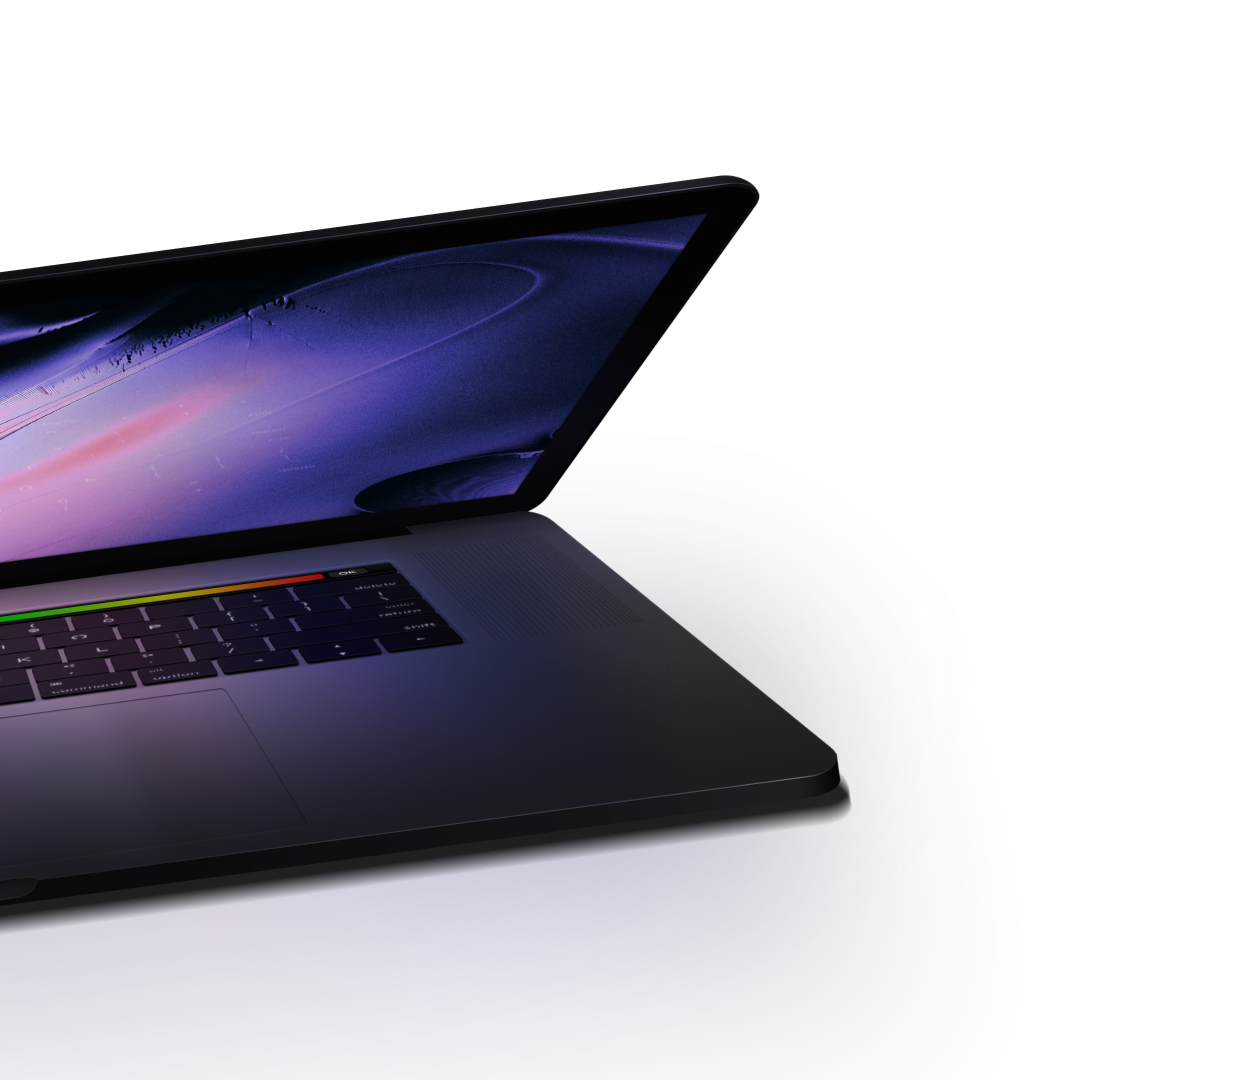
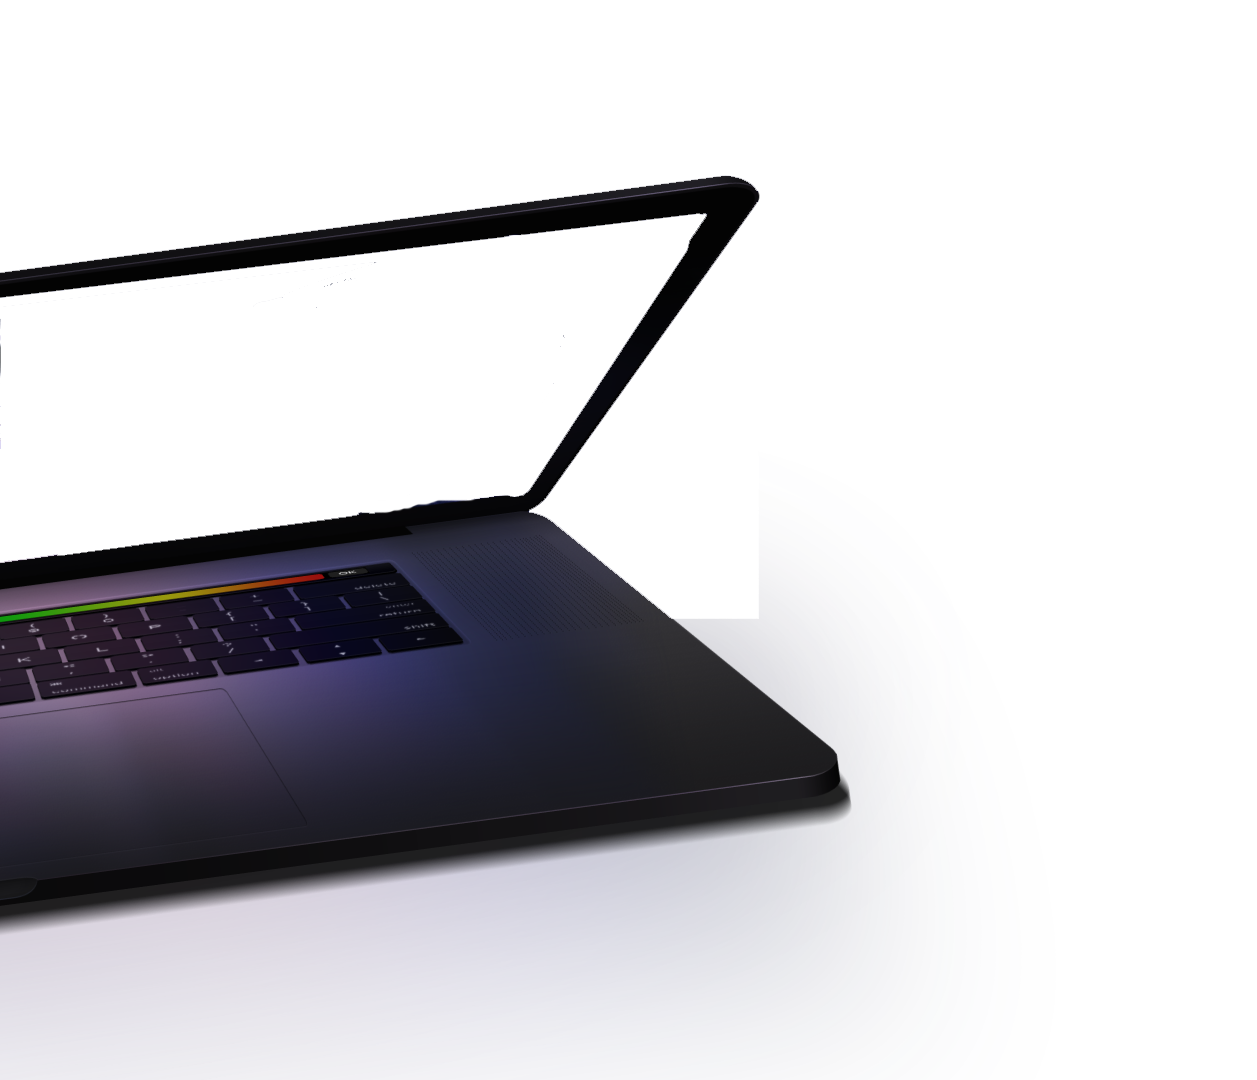
- добавлены анимации на все страницы при переходах

Changed region(s): [[0.0, 0.1833, 0.5585, 0.5194], [0.4964, 0.5194, 0.5895, 0.5806]]

diff --git a/usl.html b/usl.html
@@ -38,7 +38,7 @@
        <div class="container-fluid">
             <div class="row">
                <div class="col-12 col-md-6">
-                   <a href="#" class="h-logo">YOD</a>
+                   <a href="index.html" class="h-logo">YOD</a>
                </div>
                <div class="col-12 col-md-6">
                    <div class="row">
@@ -227,7 +227,7 @@
                             <li><a href="#" alt="Портфолио">Портфолио</a></li>
                             <li><a href="#" alt="Услуги">Услуги</a></li>
                             <li><a href="#" alt="О компании">О компании</a></li>
-                            <li><a href="#" alt="Вакансии">Вакансии</a></li>
+                            <li><a href="vac.html" alt="Вакансии">Вакансии</a></li>
                             <li><a href="#" alt="Контакты">Контакты</a></li>
                         </ul>
                     </div>
@@ -335,26 +335,12 @@
         </div>			
     </div>    
 </div>
-
-<div id="p_prldr">
-    <div class="contpre">
-
-        <svg width="100%" height="100%" viewBox="0 0 526 58" fill="none" id="svg_pr"> 
-            <path opacity="0.15" d="M25.4167 20.3748C25.4167 20.3748 125.75 47.4998 271.583 20.3748C417.417 -6.75019 517.75 20.3748 517.75 20.3748" stroke="white" stroke-width="16" stroke-linecap="round"/>
-            <mask id="mask0" mask-type="alpha" maskUnits="userSpaceOnUse" x="0" y="2" width="100%" height="100%">
-              <rect y="2" width="0" height="56" fill="#C4C4C4"/>
-            </mask>
-            <g mask="url(#mask0)">
-                <path d="M25.4167 20.3748C25.4167 20.3748 125.75 47.4998 271.583 20.3748C417.417 -6.75019 517.75 20.3748 517.75 20.3748" stroke="url(#paint0_linear)" stroke-width="16" stroke-linecap="round"/>
-            </g>
-            <defs>
-                <linearGradient id="paint0_linear" x1="-148.063" y1="39.7282" x2="-134.018" y2="-89.4333" gradientUnits="userSpaceOnUse">
-                    <stop offset="0.114351" stop-color="#69FFAE"/>
-                    <stop offset="0.509091" stop-color="#69C9FF"/>
-                    <stop offset="0.88702" stop-color="#9069FF"/>
-                </linearGradient>
-            </defs>
-        </svg>
+<div id="p_prldr2">
+    <div class="contpre2"></div>
+</div> 
+<div id="post_prldr" style="display:none;">
+    <div class="contpost">
+        <div class="contpost-wp"></div>
     </div>
 </div>
 

diff --git a/js/main.js b/js/main.js
@@ -28,19 +28,58 @@ jQuery(document).ready(function($){
 /**/
 
 /**/
+
+    $('.h-menu a').click(function(e){
+        var link = $(this).attr('href');
+        if(link.indexOf('#') == -1){
+            e.preventDefault();
+            $('#post_prldr').fadeIn();
+            setTimeout(function(){location = link}, 1500);        
+        }
+    });
+    $('.modal_auth-menu a').click(function(e){
+        var link = $(this).attr('href');
+        if(link.indexOf('#') == -1){
+            e.preventDefault();
+            $('#post_prldr').fadeIn();
+            setTimeout(function(){location = link}, 1500);        
+        }
+    });
+    $('.f-menu a').click(function(e){
+        var link = $(this).attr('href');
+        if(link.indexOf('#') == -1){
+            e.preventDefault();
+            $('#post_prldr').fadeIn();
+            setTimeout(function(){location = link}, 1500);        
+        }
+    });
+    $('.h-logo').click(function(e){
+        var link = $(this).attr('href');
+        if(link.indexOf('#') == -1){
+            e.preventDefault();
+            $('#post_prldr').fadeIn();
+            setTimeout(function(){location = link}, 1500);        
+        }
+    });
+    $('.h-mob-logo').click(function(e){
+        var link = $(this).attr('href');
+        if(link.indexOf('#') == -1){
+            e.preventDefault();
+            $('#post_prldr').fadeIn();
+            setTimeout(function(){location = link}, 1500);        
+        }
+    });
+/**/
+
+/**/
 $(window).on('load', function () {
-    var $preloader = $('#p_prldr'),
-        $svg_anm   = $preloader.find('.svg_anm');
-    $svg_anm.fadeOut();
-    $preloader.delay(1000).fadeOut('slow');
-    $('#svg_pr rect').animate({ width: 526 }, 1000, function() { });
-});
+    var $preloader2 = $('#p_prldr2');
+    $preloader2.delay(1000).fadeOut('slow');
+}); 
 /**/
 
 /**/
-/**/
 
-/**/
 /**/
 
 /**/

diff --git a/order.html b/order.html
@@ -338,37 +338,15 @@
         </div>			
     </div>    
 </div>
-
-
-<div id="p_prldr">
-    <div class="contpre">
-
-        <svg width="100%" height="100%" viewBox="0 0 526 58" fill="none" id="svg_pr"> 
-            <path opacity="0.15" d="M25.4167 20.3748C25.4167 20.3748 125.75 47.4998 271.583 20.3748C417.417 -6.75019 517.75 20.3748 517.75 20.3748" stroke="white" stroke-width="16" stroke-linecap="round"/>
-            <mask id="mask0" mask-type="alpha" maskUnits="userSpaceOnUse" x="0" y="2" width="100%" height="100%">
-              <rect y="2" width="0" height="56" fill="#C4C4C4"/>
-            </mask>
-            <g mask="url(#mask0)">
-                <path d="M25.4167 20.3748C25.4167 20.3748 125.75 47.4998 271.583 20.3748C417.417 -6.75019 517.75 20.3748 517.75 20.3748" stroke="url(#paint0_linear)" stroke-width="16" stroke-linecap="round"/>
-            </g>
-            <defs>
-                <linearGradient id="paint0_linear" x1="-148.063" y1="39.7282" x2="-134.018" y2="-89.4333" gradientUnits="userSpaceOnUse">
-                    <stop offset="0.114351" stop-color="#69FFAE"/>
-                    <stop offset="0.509091" stop-color="#69C9FF"/>
-                    <stop offset="0.88702" stop-color="#9069FF"/>
-                </linearGradient>
-            </defs>
-        </svg>
+<div id="p_prldr2">
+    <div class="contpre2"></div>
+</div> 
+<div id="post_prldr" style="display:none;">
+    <div class="contpost">
+        <div class="contpost-wp"></div>
     </div>
 </div>
 
-<script type="text/javascript">$(window).on('load', function () {
-    var $preloader = $('#p_prldr'),
-        $svg_anm   = $preloader.find('.svg_anm');
-    $svg_anm.fadeOut();
-    $preloader.delay(1000).fadeOut('slow');
-    $('#svg_pr rect').animate({ width: 526 }, 1000, function() { });
-});</script>
 
 
 <script>

diff --git a/pers.html b/pers.html
@@ -385,29 +385,14 @@
         </div>			
     </div>    
 </div>
-
-<div id="p_prldr">
-    <div class="contpre">
-
-        <svg width="100%" height="100%" viewBox="0 0 526 58" fill="none" id="svg_pr"> 
-            <path opacity="0.15" d="M25.4167 20.3748C25.4167 20.3748 125.75 47.4998 271.583 20.3748C417.417 -6.75019 517.75 20.3748 517.75 20.3748" stroke="white" stroke-width="16" stroke-linecap="round"/>
-            <mask id="mask0" mask-type="alpha" maskUnits="userSpaceOnUse" x="0" y="2" width="100%" height="100%">
-              <rect y="2" width="0" height="56" fill="#C4C4C4"/>
-            </mask>
-            <g mask="url(#mask0)">
-                <path d="M25.4167 20.3748C25.4167 20.3748 125.75 47.4998 271.583 20.3748C417.417 -6.75019 517.75 20.3748 517.75 20.3748" stroke="url(#paint0_linear)" stroke-width="16" stroke-linecap="round"/>
-            </g>
-            <defs>
-                <linearGradient id="paint0_linear" x1="-148.063" y1="39.7282" x2="-134.018" y2="-89.4333" gradientUnits="userSpaceOnUse">
-                    <stop offset="0.114351" stop-color="#69FFAE"/>
-                    <stop offset="0.509091" stop-color="#69C9FF"/>
-                    <stop offset="0.88702" stop-color="#9069FF"/>
-                </linearGradient>
-            </defs>
-        </svg>
+<div id="p_prldr2">
+    <div class="contpre2"></div>
+</div> 
+<div id="post_prldr" style="display:none;">
+    <div class="contpost">
+        <div class="contpost-wp"></div>
     </div>
 </div>
-
 
 <script type="text/javascript" src="fancybox/jquery.fancybox.pack.js" ></script>
 <script type="text/javascript" src="js/main.js"></script>

diff --git a/case.html b/case.html
@@ -338,30 +338,14 @@
         </div>			
     </div>    
 </div>
-
-<div id="p_prldr">
-    <div class="contpre">
-
-        <svg width="100%" height="100%" viewBox="0 0 526 58" fill="none" id="svg_pr"> 
-            <path opacity="0.15" d="M25.4167 20.3748C25.4167 20.3748 125.75 47.4998 271.583 20.3748C417.417 -6.75019 517.75 20.3748 517.75 20.3748" stroke="white" stroke-width="16" stroke-linecap="round"/>
-            <mask id="mask0" mask-type="alpha" maskUnits="userSpaceOnUse" x="0" y="2" width="100%" height="100%">
-              <rect y="2" width="0" height="56" fill="#C4C4C4"/>
-            </mask>
-            <g mask="url(#mask0)">
-                <path d="M25.4167 20.3748C25.4167 20.3748 125.75 47.4998 271.583 20.3748C417.417 -6.75019 517.75 20.3748 517.75 20.3748" stroke="url(#paint0_linear)" stroke-width="16" stroke-linecap="round"/>
-            </g>
-            <defs>
-                <linearGradient id="paint0_linear" x1="-148.063" y1="39.7282" x2="-134.018" y2="-89.4333" gradientUnits="userSpaceOnUse">
-                    <stop offset="0.114351" stop-color="#69FFAE"/>
-                    <stop offset="0.509091" stop-color="#69C9FF"/>
-                    <stop offset="0.88702" stop-color="#9069FF"/>
-                </linearGradient>
-            </defs>
-        </svg>
+<div id="p_prldr2">
+    <div class="contpre2"></div>
+</div> 
+<div id="post_prldr" style="display:none;">
+    <div class="contpost">
+        <div class="contpost-wp"></div>
     </div>
 </div>
-
-
 
 <script type="text/javascript" src="js/lightslider.min.js"></script>
 <script>

diff --git a/about.html b/about.html
@@ -373,26 +373,12 @@
         </div>			
     </div>    
 </div>
-
-<div id="p_prldr">
-    <div class="contpre">
-
-        <svg width="100%" height="100%" viewBox="0 0 526 58" fill="none" id="svg_pr"> 
-            <path opacity="0.15" d="M25.4167 20.3748C25.4167 20.3748 125.75 47.4998 271.583 20.3748C417.417 -6.75019 517.75 20.3748 517.75 20.3748" stroke="white" stroke-width="16" stroke-linecap="round"/>
-            <mask id="mask0" mask-type="alpha" maskUnits="userSpaceOnUse" x="0" y="2" width="100%" height="100%">
-              <rect y="2" width="0" height="56" fill="#C4C4C4"/>
-            </mask>
-            <g mask="url(#mask0)">
-                <path d="M25.4167 20.3748C25.4167 20.3748 125.75 47.4998 271.583 20.3748C417.417 -6.75019 517.75 20.3748 517.75 20.3748" stroke="url(#paint0_linear)" stroke-width="16" stroke-linecap="round"/>
-            </g>
-            <defs>
-                <linearGradient id="paint0_linear" x1="-148.063" y1="39.7282" x2="-134.018" y2="-89.4333" gradientUnits="userSpaceOnUse">
-                    <stop offset="0.114351" stop-color="#69FFAE"/>
-                    <stop offset="0.509091" stop-color="#69C9FF"/>
-                    <stop offset="0.88702" stop-color="#9069FF"/>
-                </linearGradient>
-            </defs>
-        </svg>
+<div id="p_prldr2">
+    <div class="contpre2"></div>
+</div> 
+<div id="post_prldr" style="display:none;">
+    <div class="contpost">
+        <div class="contpost-wp"></div>
     </div>
 </div>
 

diff --git a/vac.html b/vac.html
@@ -297,26 +297,12 @@
         </div>			
     </div>    
 </div>
-
-<div id="p_prldr">
-    <div class="contpre">
-
-        <svg width="100%" height="100%" viewBox="0 0 526 58" fill="none" id="svg_pr"> 
-            <path opacity="0.15" d="M25.4167 20.3748C25.4167 20.3748 125.75 47.4998 271.583 20.3748C417.417 -6.75019 517.75 20.3748 517.75 20.3748" stroke="white" stroke-width="16" stroke-linecap="round"/>
-            <mask id="mask0" mask-type="alpha" maskUnits="userSpaceOnUse" x="0" y="2" width="100%" height="100%">
-              <rect y="2" width="0" height="56" fill="#C4C4C4"/>
-            </mask>
-            <g mask="url(#mask0)">
-                <path d="M25.4167 20.3748C25.4167 20.3748 125.75 47.4998 271.583 20.3748C417.417 -6.75019 517.75 20.3748 517.75 20.3748" stroke="url(#paint0_linear)" stroke-width="16" stroke-linecap="round"/>
-            </g>
-            <defs>
-                <linearGradient id="paint0_linear" x1="-148.063" y1="39.7282" x2="-134.018" y2="-89.4333" gradientUnits="userSpaceOnUse">
-                    <stop offset="0.114351" stop-color="#69FFAE"/>
-                    <stop offset="0.509091" stop-color="#69C9FF"/>
-                    <stop offset="0.88702" stop-color="#9069FF"/>
-                </linearGradient>
-            </defs>
-        </svg>
+<div id="p_prldr2">
+    <div class="contpre2"></div>
+</div> 
+<div id="post_prldr" style="display:none;">
+    <div class="contpost">
+        <div class="contpost-wp"></div>
     </div>
 </div>
 

diff --git a/partn.html b/partn.html
@@ -305,25 +305,12 @@
         </div>			
     </div>    
 </div>
-
-<div id="p_prldr">
-    <div class="contpre">
-        <svg width="100%" height="100%" viewBox="0 0 526 58" fill="none" id="svg_pr"> 
-            <path opacity="0.15" d="M25.4167 20.3748C25.4167 20.3748 125.75 47.4998 271.583 20.3748C417.417 -6.75019 517.75 20.3748 517.75 20.3748" stroke="white" stroke-width="16" stroke-linecap="round"/>
-            <mask id="mask0" mask-type="alpha" maskUnits="userSpaceOnUse" x="0" y="2" width="100%" height="100%">
-              <rect y="2" width="0" height="56" fill="#C4C4C4"/>
-            </mask>
-            <g mask="url(#mask0)">
-                <path d="M25.4167 20.3748C25.4167 20.3748 125.75 47.4998 271.583 20.3748C417.417 -6.75019 517.75 20.3748 517.75 20.3748" stroke="url(#paint0_linear)" stroke-width="16" stroke-linecap="round"/>
-            </g>
-            <defs>
-                <linearGradient id="paint0_linear" x1="-148.063" y1="39.7282" x2="-134.018" y2="-89.4333" gradientUnits="userSpaceOnUse">
-                    <stop offset="0.114351" stop-color="#69FFAE"/>
-                    <stop offset="0.509091" stop-color="#69C9FF"/>
-                    <stop offset="0.88702" stop-color="#9069FF"/>
-                </linearGradient>
-            </defs>
-        </svg>
+<div id="p_prldr2">
+    <div class="contpre2"></div>
+</div> 
+<div id="post_prldr" style="display:none;">
+    <div class="contpost">
+        <div class="contpost-wp"></div>
     </div>
 </div>
 

diff --git a/index.html b/index.html
@@ -568,24 +568,19 @@
 </div>    
 <div id="post_prldr" style="display:none;">
     <div class="contpost">
-        <div class="contpost-wp">
-            <span class="contpost-one"></span>
-            <span class="contpost-two"></span>
-            <span class="contpost-three"></span>
-        </div>
+        <div class="contpost-wp"></div>
     </div>
 </div>
 
 <script>
-$('.h-menu a').click(function(e){
-    var link = $(this).attr('href');
-    if(link.indexOf('#') == -1){
-        e.preventDefault();
-        $('#post_prldr').fadeIn();
-        setTimeout(function(){location = link}, 3000);        
-    }
-});
+$(window).on('load', function () {
+    var $preloader = $('#p_prldr');
+    $preloader.delay(1000).fadeOut('slow');
+    $('#svg_pr rect').animate({ width: 526 }, 1000, function() { });
+});    
 </script>
+
+
 
 <script>
 $('.screen-btm-lang').click(function(){

diff --git a/css/main.scss b/css/main.scss
@@ -181,7 +181,11 @@ body.body-pers{
     .contpre{   max-width: 280px;}
 }
 
-.contpost { background: #fff; position: fixed; width: 100vw; height: 100vh; z-index: 9999; top: 0; left: 0; }
+.contpost { background: #fff; position: fixed; width: 100vw; height: 100vh; z-index: 9999; top: 0; left: 0;}
+
+.contpost-wp { background: url(../img/postloader.gif)no-repeat; background-size: contain; width: 100%; height: 100%;max-width: 220px;max-height: 220px;position: absolute;top: 50%; left: 50%;transform: translate(-50%, -50%);}
+
+.contpre2 { position: fixed; width: 100vw; height: 100vh; background: #fff; top: 0; left: 0; z-index: 9999;}
 
 /*footer*/
 footer { padding: 3vw 2.3vw; }

diff --git a/css/main.css b/css/main.css
@@ -868,6 +868,10 @@ body.body-pers header { position: absolute; }
 @media (max-width: 991px) { .contpre { max-width: 280px; } }
 .contpost { background: #fff; position: fixed; width: 100vw; height: 100vh; z-index: 9999; top: 0; left: 0; }
 
+.contpost-wp { background: url(../img/postloader.gif) no-repeat; background-size: contain; width: 100%; height: 100%; max-width: 220px; max-height: 220px; position: absolute; top: 50%; left: 50%; transform: translate(-50%, -50%); }
+
+.contpre2 { position: fixed; width: 100vw; height: 100vh; background: #fff; top: 0; left: 0; z-index: 9999; }
+
 /*footer*/
 footer { padding: 3vw 2.3vw; }
 
